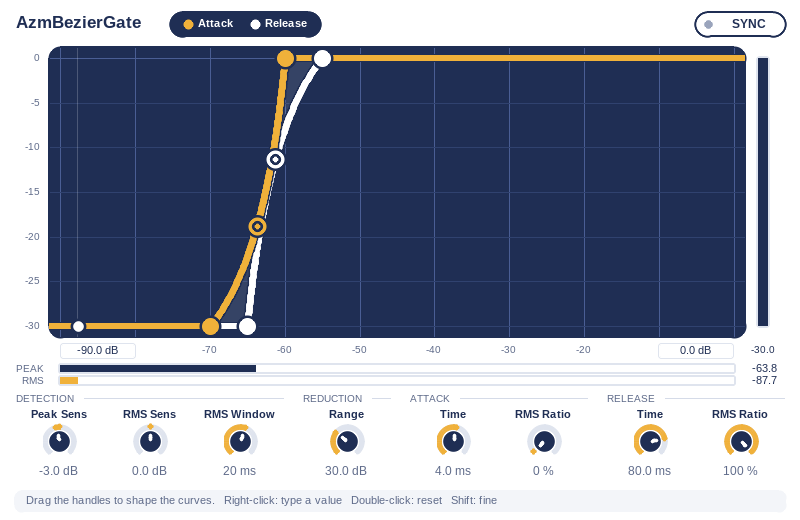
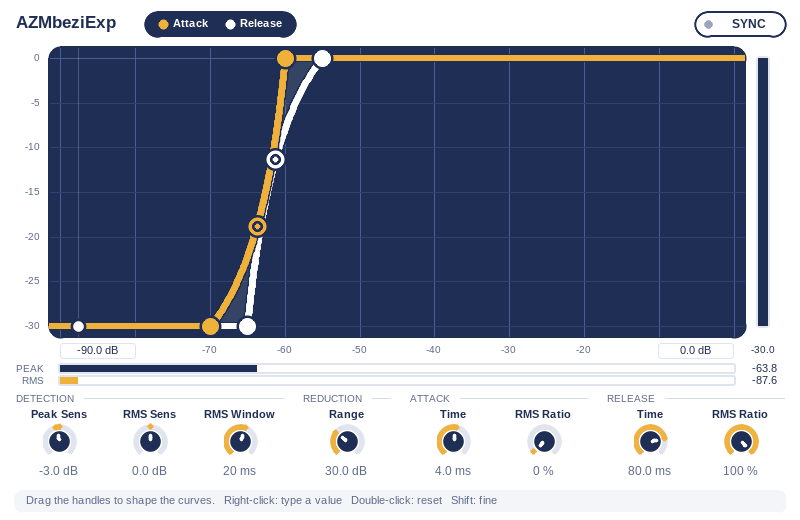
Rename project to AZMbeziExp

Changed region(s): [[0.0312, 0.0, 0.4062, 0.0923]]

diff --git a/tests/test_ysfx.cpp b/tests/test_ysfx.cpp
@@ -29,7 +29,7 @@ struct Effect {
 
     Effect()
     {
-        check(ysfx_load_file(fx, "jsfx/AzmBezierGate.jsfx", 0), "load JSFX");
+        check(ysfx_load_file(fx, "jsfx/AZMbeziExp.jsfx", 0), "load JSFX");
         check(ysfx_compile(fx, 0), "compile JSFX including GUI");
         ysfx_set_sample_rate(fx, 48000);
         ysfx_set_block_size(fx, 1);

diff --git a/README.md b/README.md
@@ -1,14 +1,14 @@
-# AzmBezierGate
+# AZMbeziExp
 
 歌声の入り方や語尾を整える、カーブ編集式のゲート／エキスパンダーです。小さな音を抑えながら、歌い出しや語尾に合わせてゲートの開き方を調整できます。
 
 音量の上昇と下降にそれぞれカーブを設定し、Peak と RMS の混合比や追随時間を独立して調整できます。フルバンド・ステレオリンクで処理し、ルックアヘッドによる遅延はありません。
 
-![AzmBezierGate の画面。Attack と Release のカーブ、メーター、各つまみを表示](docs/gui.png)
+![AZMbeziExp の画面。Attack と Release のカーブ、メーター、各つまみを表示](docs/gui.png)
 
 ## 導入
 
-JSFX に対応したホストのエフェクト用フォルダに [`jsfx/AzmBezierGate.jsfx`](jsfx/AzmBezierGate.jsfx) をコピーし、エフェクトとして追加します。フォルダの場所や追加方法は、使用するホストの案内を参照してください。
+JSFX に対応したホストのエフェクト用フォルダに [`jsfx/AZMbeziExp.jsfx`](jsfx/AZMbeziExp.jsfx) をコピーし、エフェクトとして追加します。フォルダの場所や追加方法は、使用するホストの案内を参照してください。
 
 ## 使い方
 

diff --git a/docs/algorithm.md b/docs/algorithm.md
@@ -1,6 +1,6 @@
 # アルゴリズム
 
-[`jsfx/AzmBezierGate.jsfx`](../jsfx/AzmBezierGate.jsfx) の信号処理と表示を説明します。
+[`jsfx/AZMbeziExp.jsfx`](../jsfx/AZMbeziExp.jsfx) の信号処理と表示を説明します。
 
 ![ステレオ入力から Peak・RMS 検知、方向判定、カーブ、ゲイン追随を経て出力する信号経路](algorithm-flow.svg)
 
